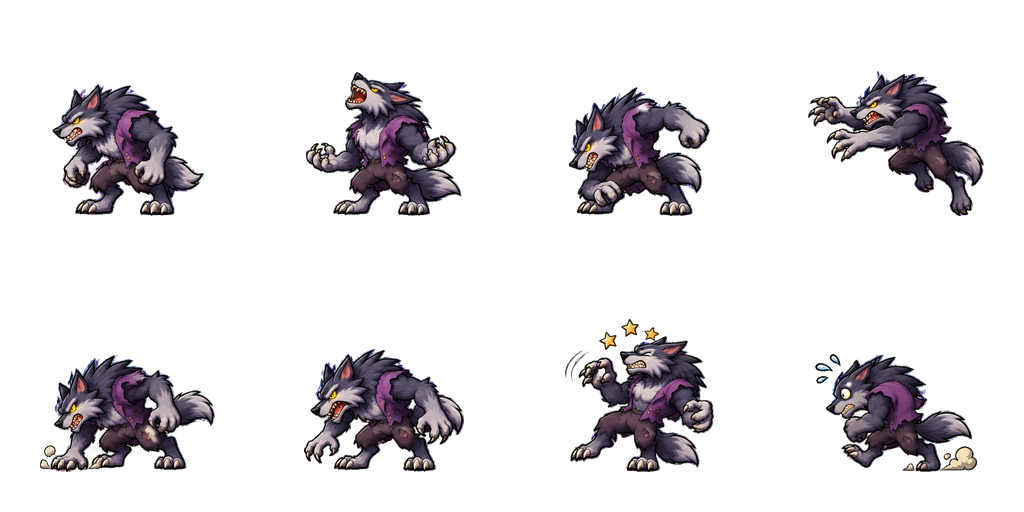
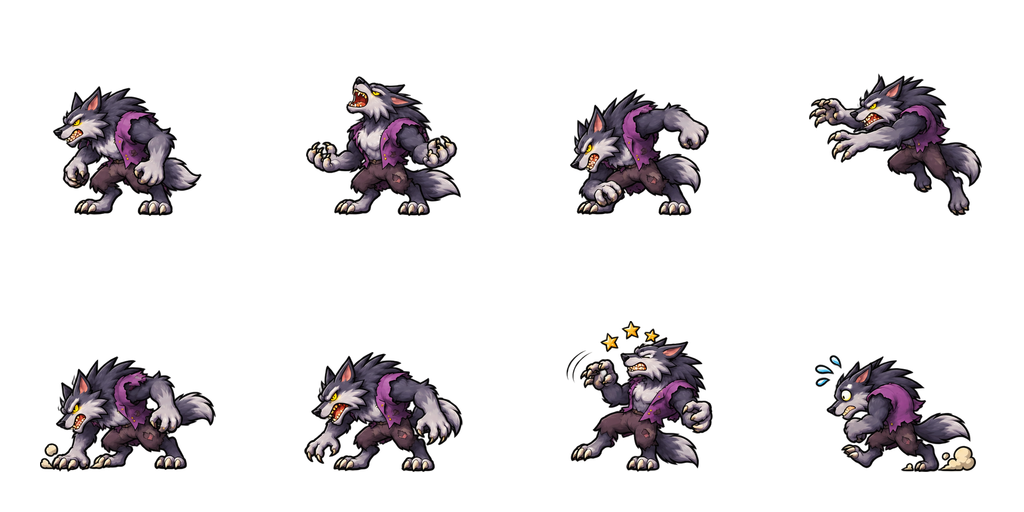
feat: update monster asset names and improve transparency handling in imports

diff --git a/tests/jungle-monster-assets.test.ts b/tests/jungle-monster-assets.test.ts
@@ -6,19 +6,28 @@ import sharp from 'sharp';
 
 test('every imported monster, prop, and magic frame has 40px of genuinely transparent padding', async () => {
   const root = path.resolve('public/games/monsters');
-  const manifest = JSON.parse(await readFile(path.join(root, 'import-manifest.json'), 'utf8'));
-  for (const [key, atlas] of Object.entries(manifest.atlases) as [string, { frames: number; rows: number }][]) {
+  const manifest = JSON.parse(await readFile(path.join(root, 'import-manifest.json'), 'utf8')) as {
+    atlases: Record<string, { frames: number; rows: number }>;
+    sources: Record<string, { exteriorMatteRemoved: boolean }>;
+  };
+  for (const [key, atlas] of Object.entries(manifest.atlases)) {
     const { data, info } = await sharp(path.join(root, `${key}.webp`)).ensureAlpha().raw().toBuffer({ resolveWithObject: true });
     assert.equal(info.width, 1024, key); assert.equal(info.height, atlas.rows * 256, key);
     for (let frame = 0; frame < atlas.frames; frame++) {
       let visible = 0;
       for (let y = 0; y < 256; y++) for (let x = 0; x < 256; x++) {
-        const alpha = data[((Math.floor(frame / 4) * 256 + y) * info.width + frame % 4 * 256 + x) * 4 + 3];
+        const alpha: number = data[((Math.floor(frame / 4) * 256 + y) * info.width + frame % 4 * 256 + x) * 4 + 3];
         if (x < 40 || x >= 216 || y < 40 || y >= 216) assert.equal(alpha, 0, `${key} frame ${frame}: unsafe pixel at ${x},${y}`);
         else if (alpha) visible++;
       }
       assert.ok(visible > 20, `${key} frame ${frame} has visible art`);
     }
   }
-  assert.equal(Object.values(manifest.sources).filter((source: unknown) => (source as { exteriorMatteRemoved: boolean }).exteriorMatteRemoved).length, 4);
+  assert.equal(Object.values(manifest.sources).filter(source => source.exteriorMatteRemoved).length, 0);
+  for (const name of [
+    'Werewolf Action Pose Sprite Sheet',
+    'Eight Purple Moon Magic Circles Sprite Sheet',
+    'Eight Poses of a Cartoon Zombie Worker',
+    'Chibi Vampire Running Sprite Sheet',
+  ]) assert.equal(manifest.sources[name]?.exteriorMatteRemoved, false, `${name} uses its supplied transparency`);
 });

diff --git a/components/jungle-runner.tsx b/components/jungle-runner.tsx
@@ -265,7 +265,7 @@ function emeraldCelebration(ctx: CanvasRenderingContext2D, s: Runner) {
     ctx.save(); ctx.translate(x, y); ctx.rotate(angle + t * 2); ctx.fillStyle = i % 2 ? '#bffff0' : '#4cf7ae'; ctx.shadowColor = '#4cf7ae'; ctx.shadowBlur = 14;
     ctx.beginPath(); ctx.moveTo(0, -8); ctx.lineTo(6, 0); ctx.lineTo(0, 8); ctx.lineTo(-6, 0); ctx.closePath(); ctx.fill(); ctx.restore();
   }
-  ctx.fillStyle = '#4cf7ae'; ctx.shadowColor = '#c8ffef'; ctx.shadowBlur = 20; ctx.font = 'bold 26px sans-serif'; ctx.fillText('✦ ALL EMERALDS FOUND! ✦', 400, 76);
+  ctx.fillStyle = '#4cf7ae'; ctx.shadowColor = '#c8ffef'; ctx.shadowBlur = 20; ctx.font = 'bold 26px sans-serif'; ctx.fillText('✦ ALL GEMS FOUND! ✦', 400, 76);
   ctx.shadowBlur = 0; ctx.fillStyle = '#f4ffe5'; ctx.font = 'bold 15px sans-serif'; ctx.fillText('JUNGLE CROWN CELEBRATION', 400, 101); ctx.restore();
 }
 

diff --git a/tests/jungle-monsters.browser.ts b/tests/jungle-monsters.browser.ts
@@ -28,7 +28,7 @@ async function main() {
   assert.equal(await page.evaluate(() => document.documentElement.scrollWidth <= window.innerWidth), true);
   await page.screenshot({ path: '/tmp/monster-hollow-mobile.png', fullPage: true });
   await page.setViewportSize({ width: 844, height: 390 });
-  await expect(page.getByRole('group', { name: 'Landscape gamepad controls' }).or(page.locator('[aria-label="Landscape gamepad controls"]'))).toBeVisible();
+  await expect(page.locator('[aria-label="Landscape gamepad controls"]')).toBeVisible();
   await page.screenshot({ path: '/tmp/monster-hollow-landscape.png', fullPage: true });
   assert.deepEqual(failedAssets, []);
   assert.deepEqual(errors, []);

diff --git a/public/games/monsters/README.md b/public/games/monsters/README.md
@@ -11,9 +11,10 @@ This is 15.625% per side, equivalent to 80px on a 512px cell. Grounded art uses
 source baseline y=216. Character scale is shared across both animation sheets.
 
 The source tileset contains nine objects in unequal columns, so its frames are
-extracted individually. The importer removes exterior pale mattes from the
-werewolf encounter, zombie encounter, vampire movement, and rune sheets. Effect
-crop perimeters taper to transparent before being packed into the safe area.
+extracted individually. The werewolf encounter, zombie encounter, vampire
+movement, and rune sheets now use the updated transparent PNGs supplied by the
+user. All sprite sources have native alpha; no exterior matte removal is needed.
+Effect crop perimeters taper to transparent before being packed into the safe area.
 
 To reproduce the import from a folder containing the original filenames:
 
